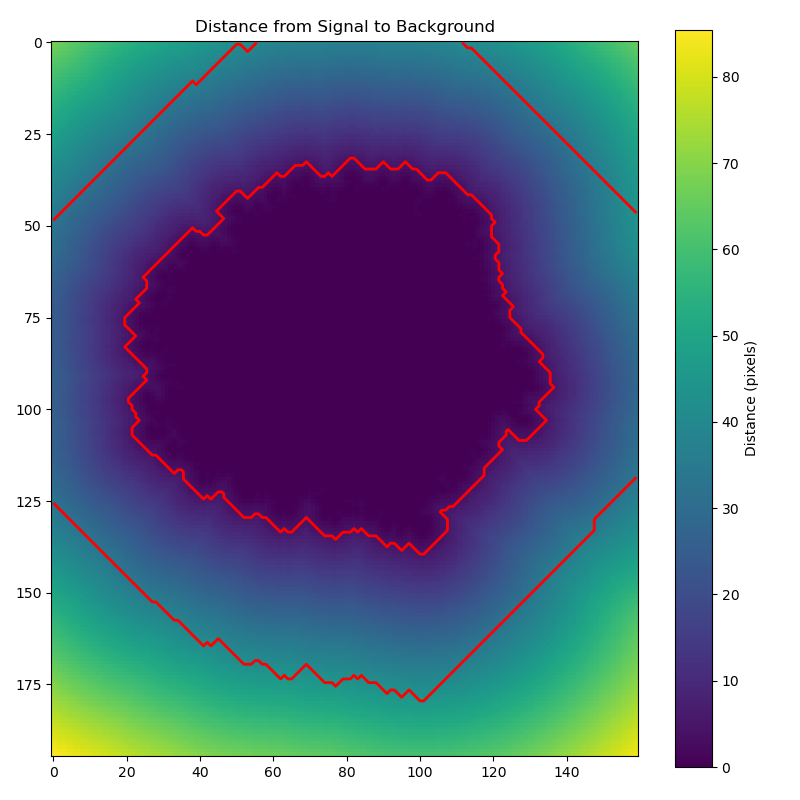
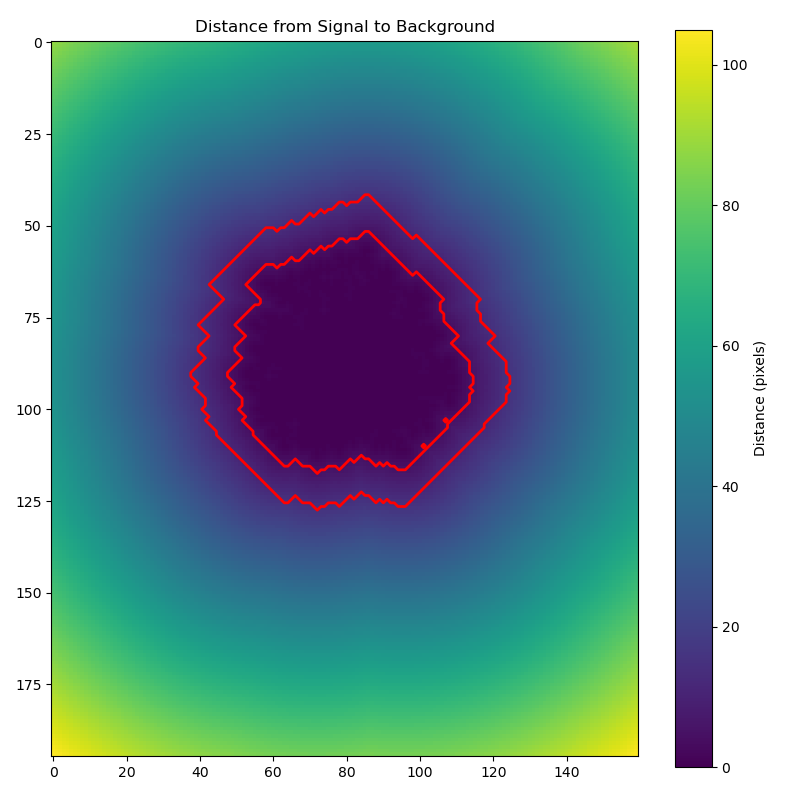
change parameters to demonstrate wrong background roi failure mode

diff --git a/btx/processing/scripts/xppl1030522.py b/btx/processing/scripts/xppl1030522.py
@@ -65,7 +65,8 @@ config = {
     'setup': {
         'run': 190,
         'exp': 'xppl1030522',
-        'background_roi_coords': [0, 15, 0, 40]
+        'background_roi_coords': [80, 95, 5, 45]
+        #'background_roi_coords': [0, 15, 0, 40]
     },
     'load_data': {
         'roi': (130, 290, 95, 340), 
@@ -86,7 +87,8 @@ config = {
     },
     'generate_masks': {
         'threshold': 0.05,
-        'bg_mask_mult': 2.0,
+        #'bg_mask_mult': 2.0,
+        'bg_mask_mult': 1.0,
         'bg_mask_thickness': 5
     },
     'pump_probe_analysis': {
